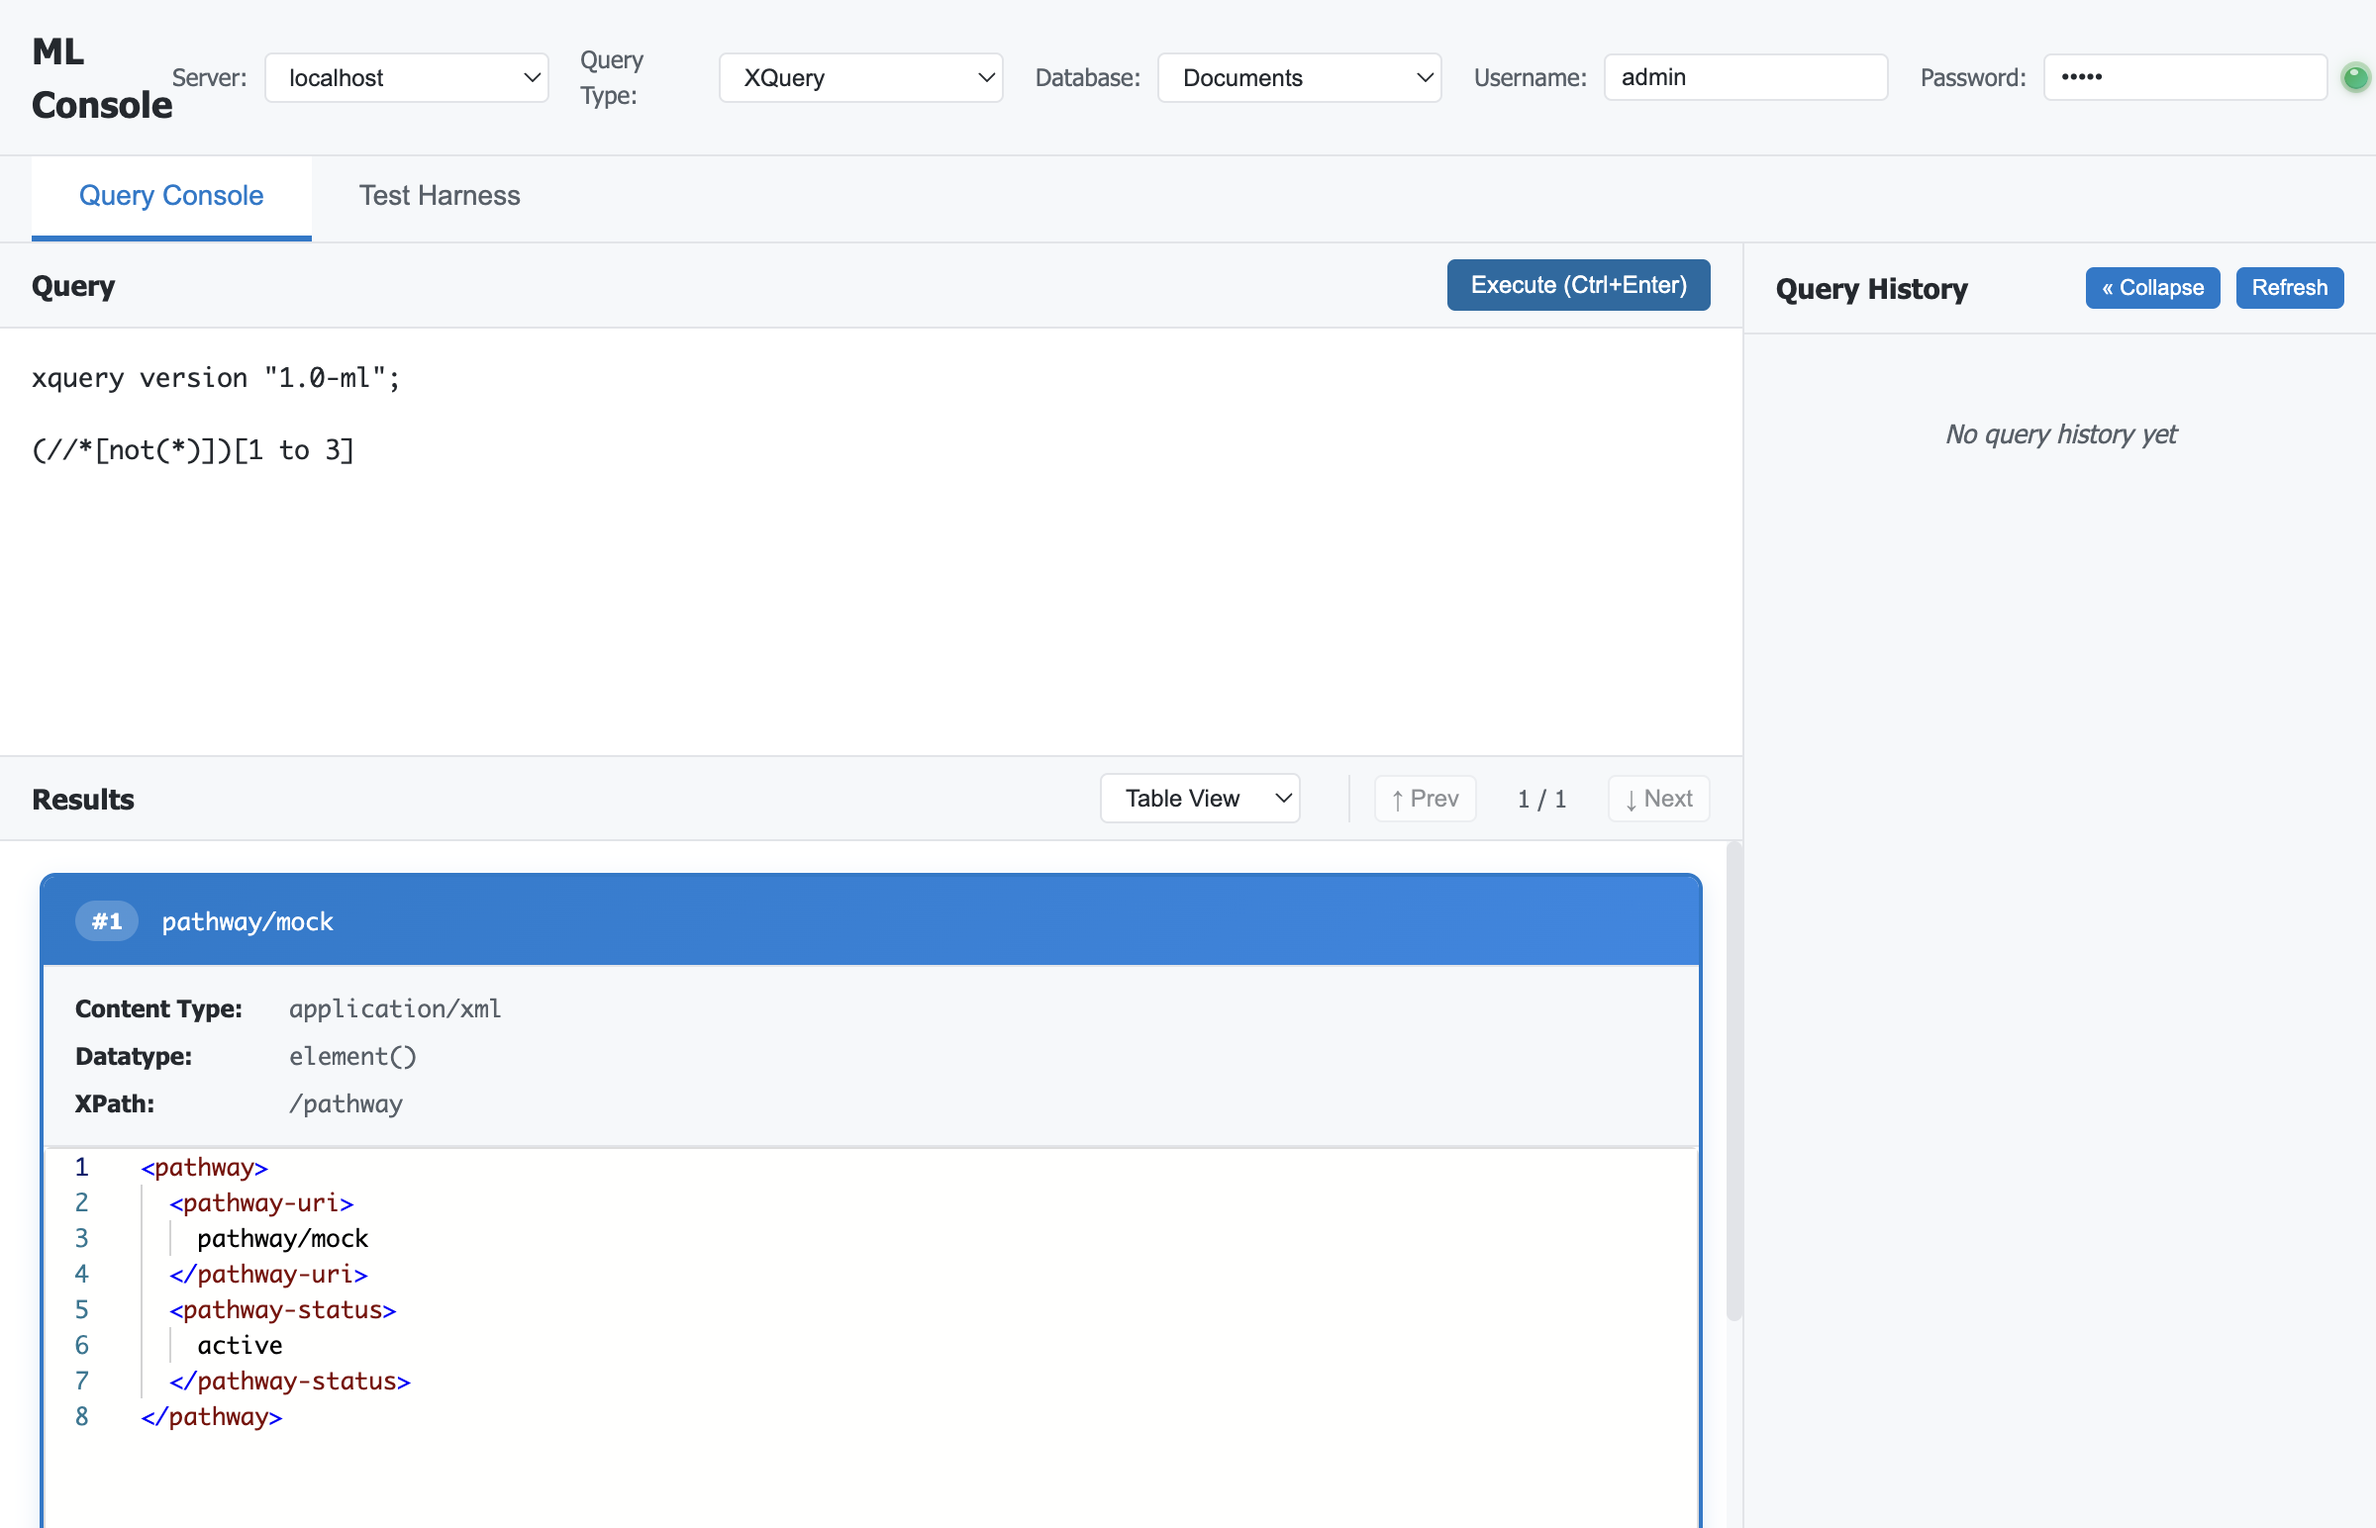
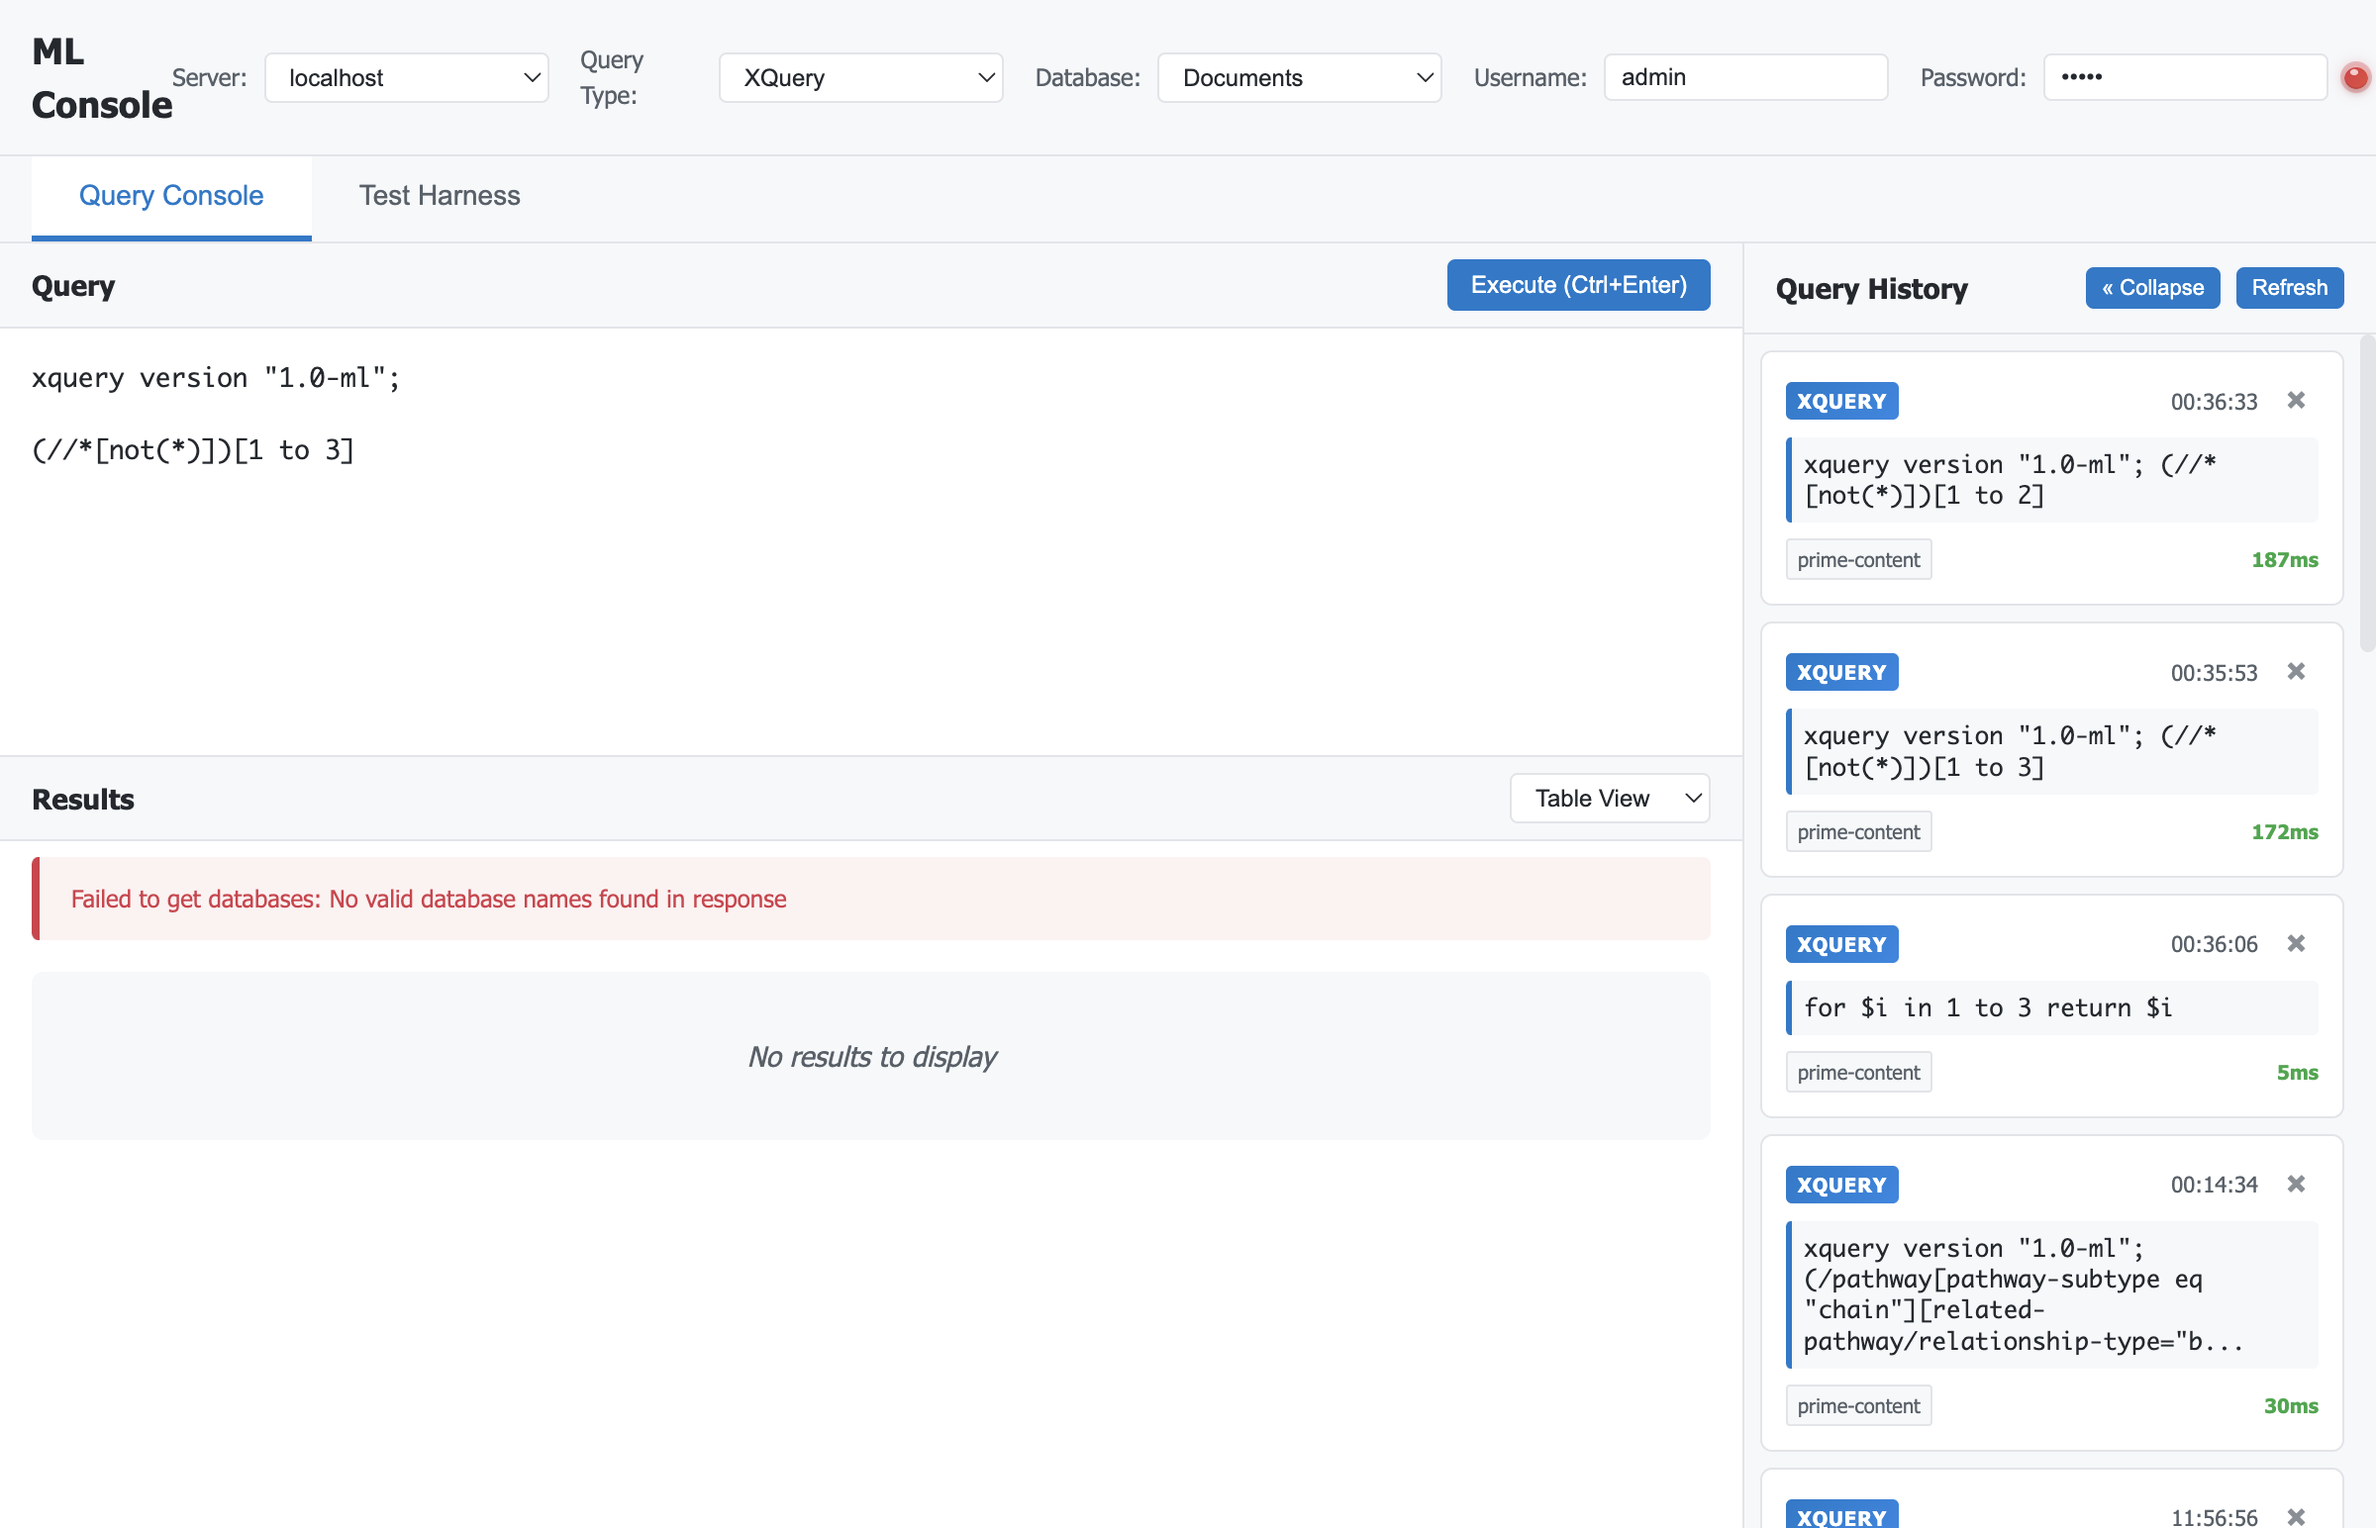
fix: resolve database initialization and IPC handler issues
- Fix duplicate IPC handler registration error for 'db-save-query'
- Improve database migration logic to handle existing schemas properly
- Add query_hash column and unique index to existing database
- Fix unique query history test to check for specific query duplicates
- All E2E tests now passing with proper unique query deduplication

Fixes:
- Error: 'Attempted to register a second handler for db-save-query'
- Database initialization working correctly in both dev and test modes
- Unique query histories feature fully functional with deduplication
- React duplicate key warnings resolved

diff --git a/tests/electron.spec.ts b/tests/electron.spec.ts
@@ -164,21 +164,24 @@ test('prevents duplicate queries in history - updates timestamp instead', async 
     console.log(`Loading message visible: ${loadingMsg}`);
   }
   
-  // Count history items - should only have 1 item despite running the same query twice
+  // Count history items with our specific query content
   const historyItems = await win.locator('.history-item').count();
-  console.log(`History items count: ${historyItems}`);
+  console.log(`Total history items count: ${historyItems}`);
   
-  // For now, let's be more lenient and just check that we don't have 2 identical items
-  // The real test is that we don't have duplicates
-  expect(historyItems).toBeLessThanOrEqual(1);
+  // Count items that contain our specific test query
+  const testQueryItems = await win.locator('.history-item-preview:has-text("for $i in 1 to 3 return $i")').count();
+  console.log(`Test query items count: ${testQueryItems}`);
   
-  // Only verify content if we have items
-  if (historyItems > 0) {
-    const historyPreview = await win.locator('.history-item-preview').first().textContent();
+  // The key test: should only have 1 item with our specific query despite running it twice
+  expect(testQueryItems).toBe(1);
+  
+  // Verify the content is correct
+  if (testQueryItems > 0) {
+    const historyPreview = await win.locator('.history-item-preview:has-text("for $i in 1 to 3 return $i")').first().textContent();
     expect(historyPreview).toContain('for $i in 1 to 3 return $i');
     console.log(`History preview content: ${historyPreview}`);
   } else {
-    console.log('No history items found - database may not be working in test environment');
+    console.log('No history items found with our test query - database may not be working in test environment');
   }
   
   await win.screenshot({ path: 'unique-query-history-test.png' });

diff --git a/electron/database.js b/electron/database.js
@@ -59,13 +59,18 @@ class QueryRepository {
 
     // Add query_hash column if it doesn't exist (migration)
     try {
-      this.db.exec(`ALTER TABLE queries ADD COLUMN query_hash TEXT UNIQUE;`);
-      console.log('Added query_hash column to existing database');
+      this.db.exec(`ALTER TABLE queries ADD COLUMN query_hash TEXT;`);
+      console.log('✅ Added query_hash column to existing database');
+      
+      // Add unique index for query_hash
+      this.db.exec(`CREATE UNIQUE INDEX IF NOT EXISTS idx_queries_hash ON queries(query_hash);`);
+      console.log('✅ Added query_hash unique index');
     } catch (error) {
-      if (error.code === 'SQLITE_ERROR' && error.message.includes('duplicate column name')) {
-        console.log('query_hash column already exists');
+      if (error.message.includes('duplicate column name')) {
+        console.log('✅ query_hash column already exists');
       } else {
-        console.log('query_hash column already exists or migration not needed');
+        console.warn('⚠ Could not add query_hash column:', error.message);
+        // Continue without the column - this is a migration issue
       }
     }
 

diff --git a/electron/main.js b/electron/main.js
@@ -117,13 +117,17 @@ function waitForServer(urlString, timeoutMs = 30000, intervalMs = 500) {
   });
 }
 
-app.whenReady().then(() => {
+app.whenReady().then(async () => {
   // Initialize database
   try {
     queryRepository = new QueryRepository();
-    console.log('Query repository initialized');
+    console.log('Query repository initialized successfully');
   } catch (error) {
     console.error('Failed to initialize query repository:', error);
+    // Don't create window if database fails - this is critical
+    console.error('Cannot start application without database');
+    app.quit();
+    return;
   }
   
   createWindow();
